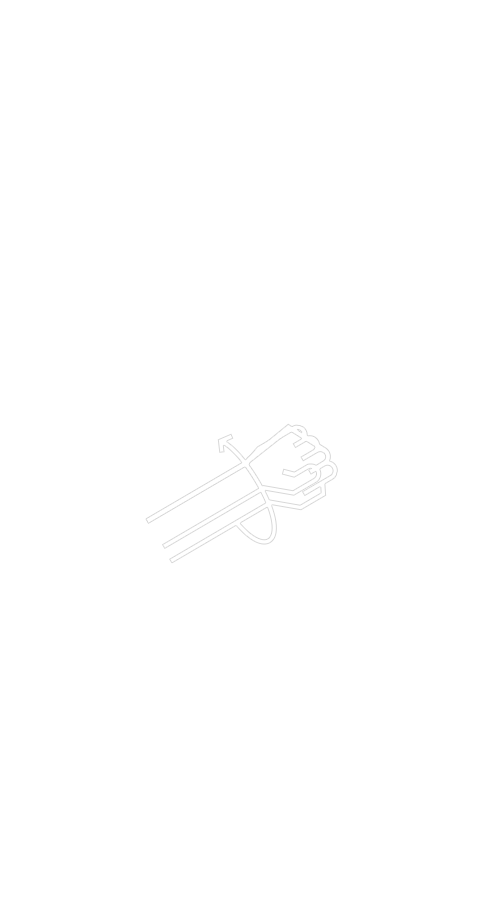
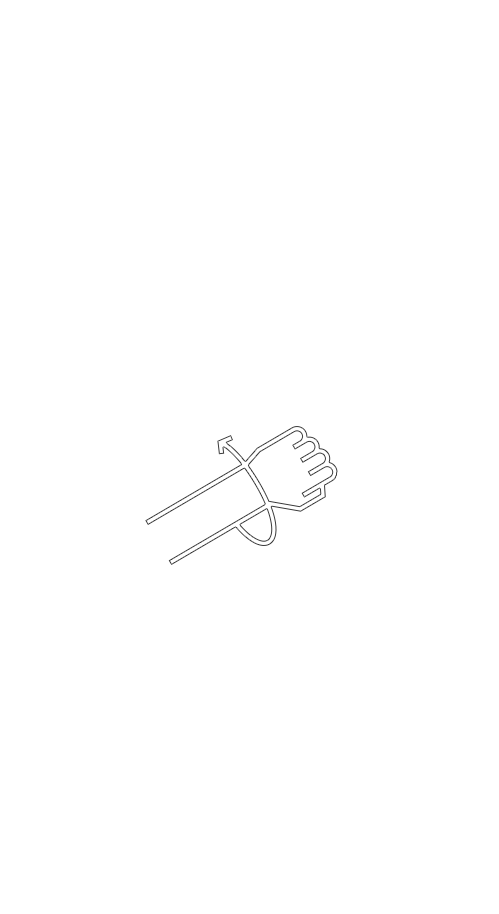
integration V1 ok

diff --git a/index.html b/index.html
@@ -112,26 +112,26 @@
                 </div>
                 <div class="main-elt">
                     <div class="contain-picto-mini">
-                        <div class="picto-meas-mini">
+                        <div class="picto-meas-mini hidden">
                             <span>1</span>
                             <img class="wrist-measure-mini" src="img/wrist-meas-mini-1.png" alt="Picture of wrist measure">
                         </div>
-                        <div class="picto-meas-mini">
+                        <div class="picto-meas-mini hidden">
                             <span>2</span>
                             <img class="wrist-measure-mini" src="img/wrist-meas-mini-2.png" alt="Picture of wrist measure">
                         </div>
-                        <div class="picto-meas-mini">
+                        <div class="picto-meas-mini hidden">
                             <span>3</span>
                             <img class="wrist-measure-mini" src="img/wrist-meas-mini-3.png" alt="Picture of wrist measure">
                         </div>
                     </div>
-                    <p><span class="red">1 - </span>Bien poser son smartphone<br>
+                    <p class="intro2-title"><span class="red">1 - </span>Bien poser son smartphone<br>
                         au contact de la peau de votre poignet
                     </p>
                     <div class="picto-meas">
-                        <!-- <img class="wrist-measure" src="img/wrist-meas-1.png" alt="Picture of wrist measure 1">
-                        <img class="wrist-measure" src="img/wrist-meas-2.png" alt="Picture of wrist measure 2"> -->
-                        <img class="wrist-measure" src="img/wrist-meas-3.png" alt="Picture of wrist measure 3">
+                        <img class="wrist-measure intro2-picto1" src="img/wrist-meas-1.png" alt="Picture of wrist measure 1">
+                        <img class="wrist-measure intro2-picto2" src="img/wrist-meas-2.png" alt="Picture of wrist measure 2">
+                        <img class="wrist-measure intro2-picto3" src="img/wrist-meas-3.png" alt="Picture of wrist measure 3">
                     </div>
                 </div>
                 <div class="contain-bot">
@@ -155,21 +155,21 @@
                             <span>1</span>
                             <img class="wrist-measure-mini" src="img/wrist-meas-mini-1.png" alt="Picture of wrist measure">
                         </div>
-                        <div class="picto-meas-mini">
+                        <div class="picto-meas-mini hidden">
                             <span>2</span>
                             <img class="wrist-measure-mini" src="img/wrist-meas-mini-2.png" alt="Picture of wrist measure">
                         </div>
-                        <div class="picto-meas-mini">
+                        <div class="picto-meas-mini hidden">
                             <span>3</span>
                             <img class="wrist-measure-mini" src="img/wrist-meas-mini-3.png" alt="Picture of wrist measure">
                         </div>
                     </div>
-                    <p><span class="red">2 - </span>Se positionner<br>
+                    <p class="intro3-title"><span class="red">2 - </span>Se positionner<br>
                         après l'os du poignet
                     </p>
                     <div class="picto-meas">
-                        <!-- <img class="wrist-measure" src="img/wrist-meas-4.png" alt="Picture of wrist measure 4"> -->
-                        <img class="wrist-measure" src="img/wrist-meas-5.png" alt="Picture of wrist measure 5">
+                        <img class="wrist-measure intro3-picto1" src="img/wrist-meas-4.png" alt="Picture of wrist measure 4">
+                        <img class="wrist-measure intro3-picto2" src="img/wrist-meas-5.png" alt="Picture of wrist measure 5">
                     </div>
                 </div>
                 <div class="contain-bot">
@@ -197,18 +197,18 @@
                             <span>2</span>
                             <img class="wrist-measure-mini" src="img/wrist-meas-mini-2.png" alt="Picture of wrist measure">
                         </div>
-                        <div class="picto-meas-mini">
+                        <div class="picto-meas-mini hidden">
                             <span>3</span>
                             <img class="wrist-measure-mini" src="img/wrist-meas-mini-3.png" alt="Picture of wrist measure">
                         </div>
                     </div>
-                    <p><span class="red">3 - </span>Ajuster la réglette virtuelle<br>
+                    <p class="intro4-title"><span class="red">3 - </span>Ajuster la réglette virtuelle<br>
                         sur la largeur dans la continuité du bras
                     </p>
                     <div class="picto-meas">
-                        <!-- <img class="wrist-measure" src="img/wrist-meas-6.png" alt="Picture of wrist measure 6">
-                        <img class="wrist-measure" src="img/wrist-meas-7.png" alt="Picture of wrist measure 7"> -->
-                        <img class="wrist-measure" src="img/wrist-meas-8.png" alt="Picture of wrist measure 8">
+                        <img class="wrist-measure intro4-picto1" src="img/wrist-meas-6.png" alt="Picture of wrist measure 6">
+                        <img class="wrist-measure intro4-picto2" src="img/wrist-meas-7.png" alt="Picture of wrist measure 7">
+                        <img class="wrist-measure intro4-picto3" src="img/wrist-meas-8.png" alt="Picture of wrist measure 8">
                     </div>
                 </div>
                 <div class="contain-bot">
@@ -320,13 +320,12 @@
         <div class="slide slide3">
             <div class="inside-slide">
                 <div class="main-elt">
-                    <p>Tournez votre poignet et prenez la mesure<br>
+                    <p class="slide3-title">Tournez votre poignet et prenez la mesure<br>
                         comme sur l'étape précédente</p>
                     <div class="picto-meas">
-                        <!-- <img class="wrist-rotate" src="img/wrist-rotate-1.png" alt="Picture of wrist rotate 1"> -->
-                        <img class="wrist-rotate" src="img/wrist-rotate-2.png" alt="Picture of wrist rotate 2">
-                        <!-- <img class="wrist-rotate" src="img/wrist-rotate-3.png" alt="Picture of wrist rotate 3"> -->
-                        <img class="wrist-rotate" src="img/wrist-rotate-4.png" alt="Picture of wrist rotate 4">
+                        <img class="wrist-rotate slide3-picto1" src="img/wrist-rotate-1.png" alt="Picture of wrist rotate 1">
+                        <img class="wrist-rotate slide3-picto2" src="img/wrist-rotate-2.png" alt="Picture of wrist rotate 2">
+                        <img class="wrist-rotate slide3-picto3" src="img/wrist-rotate-3.png" alt="Picture of wrist rotate 3">
                     </div>
                 </div>
                 <div class="contain-bot">
@@ -381,12 +380,9 @@
             <div class="inside-slide">
                 <div class="logo-top"><img src="img/logo.png" alt="Logo Tissot"></div>
                 <div class="main-elt">
-                    <p>Votre taille est :<br>
-                        <!-- <span class="result"></span> cm</p> -->
+                    <p class="slide5-title">Votre taille est :<br>
                         <span class="result"></span><span class="symb-unit3"></span></p>
-                        
-
-                    <div class="contain-unit">
+                    <div class="contain-unit contain-unit2">
                         <div class="unit unit-in">IN</div>
                         <div class="unit unit-cm select">CM</div>
                         <div class="unit unit-mm">MM</div>
@@ -405,7 +401,8 @@
         </div>
 
     </div> <!-- End of Container -->
-    
+
+    <script src="https://cdnjs.cloudflare.com/ajax/libs/gsap/3.9.1/gsap.min.js"></script>
     <script src="script.js"></script>
 </body>
 </html>

diff --git a/script.js b/script.js
@@ -130,6 +130,38 @@ function changeUnit(){
 
 
 
+// Timelines GSAP sur les Pictos
+const TL1 = gsap.timeline({repeat: -1, repeatDelay: 2, paused: true});
+TL1.from('.intro2-picto1', {duration: 1, opacity: 0}, 1)
+   .to('.intro2-picto1', {duration: 1, opacity: 0}, 3)
+   .from('.intro2-picto2', {duration: 0.4, opacity: 0}, 3)
+   .to('.intro2-picto2', {duration: 1, opacity: 0}, 5)
+   .from('.intro2-picto3', {duration: 0.4, opacity: 0}, 5);
+
+const TL2 = gsap.timeline({repeat: -1, repeatDelay: 2, paused: true});
+TL2.from('.intro3-picto1', {duration: 1, opacity: 0}, 1)
+   .to('.intro3-picto1', {duration: 1, opacity: 0}, 3)
+   .from('.intro3-picto2', {duration: 0.4, opacity: 0}, 3);
+
+const TL3 = gsap.timeline({repeat: -1, repeatDelay: 2, paused: true});
+TL3.from('.intro4-picto1', {duration: 1, opacity: 0}, 1)
+   .to('.intro4-picto1', {duration: 1, opacity: 0}, 3)
+   .from('.intro4-picto2', {duration: 0.4, opacity: 0}, 3)
+   .to('.intro4-picto2', {duration: 1, opacity: 0}, 6)
+   .from('.intro4-picto3', {duration: 0.4, opacity: 0}, 6);
+
+const TL4 = gsap.timeline({repeat: -1, repeatDelay: 2, paused: true});
+TL4.from('.slide3-picto1', {duration: 1, opacity: 0}, 1)
+   .to('.slide3-picto1', {duration: 0.5, opacity: 0}, 2.5)
+   .from('.slide3-picto2', {duration: 0.5, opacity: 0}, 2.5)
+   .from('.slide3-picto3', {duration: 0.5, opacity: 0}, 2.5)
+   .to('.slide3-picto2', {duration: 0.2, opacity: 0}, 3.5);
+
+const TL5 = gsap.timeline({repeat: 0, repeatDelay: 2, paused: true});
+TL5.from('.slide5-title', {duration: 1, opacity: 0, x: 50}, 0.1)
+   .from('.contain-unit2', {duration: 1, opacity: 0}, 1)
+   .from('.contain-cta', {duration: 1, opacity: 0}, 1.5);
+
 // On écoute sur chaque slide le click sur "Confirmer"
 suivant.forEach(element => {
     element.addEventListener('click', pageSuivante);
@@ -159,6 +191,37 @@ function pageSuivante(){
     pages[count].classList.add('active');
     showMeasure(measureElt1, numberElt1, lineElt1, symbElt1);
     showMeasure(measureElt2, numberElt2, lineElt2, symbElt2);
+
+    // Animation GSAP sur les Pictos
+    if(count == 2) {
+        TL1.restart();
+        gsap.from(".intro2-title", {x: 50, duration: 1});
+    } else {
+        TL1.pause();
+    }
+    if(count == 3) {
+        TL2.restart();
+        gsap.from(".intro3-title", {x: 50, duration: 1});
+    } else {
+        TL2.pause();
+    }
+    if(count == 4) {
+        TL3.restart();
+        gsap.from(".intro4-title", {x: 50, duration: 1});
+    } else {
+        TL3.pause();
+    }
+    if(count == 8) {
+        TL4.restart();
+        gsap.from(".slide3-title", {x: 50, duration: 1});
+    } else {
+        TL4.pause();
+    }
+    if(count == 10) {
+        TL5.restart();
+    } else {
+        TL5.pause();
+    }
 } // Fin de fonction pageSuivante
 
 
@@ -172,13 +235,33 @@ function pagePrecedente(){
     if(count > 0 && count != 5){
         count--;
     } else if(count > 0 && count == 5){
-        count = 2;
+        count = 1;
     } else {
         count = nbPages - 1;
     }
     pages[count].classList.add('active');
     showMeasure(measureElt1, numberElt1, lineElt1, symbElt1);
     showMeasure(measureElt2, numberElt2, lineElt2, symbElt2);
+    if(count == 2) {
+        TL1.restart();
+    } else {
+        TL1.pause();
+    }
+    if(count == 3) {
+        TL2.restart();
+    } else {
+        TL2.pause();
+    }
+    if(count == 4) {
+        TL3.restart();
+    } else {
+        TL3.pause();
+    }
+    if(count == 8) {
+        TL4.restart();
+    } else {
+        TL4.pause();
+    }
 }
 
 

diff --git a/css/style.css b/css/style.css
@@ -59,7 +59,7 @@ a{
 }
 .slide.active{
     display: block;
-    animation: inframe 2s;
+    animation: inframe 1s;
 }
 /* animation d'apparition des slides */
 @keyframes inframe {
@@ -70,6 +70,7 @@ a{
         opacity: 1;
     }
 }
+
 .inside-slide{
     position: relative;
     width: 100%;
@@ -274,13 +275,6 @@ a{
     padding-bottom: 13rem;
 }
 
-/* test */
-.slide3 .inside-slide{
-    /* position: relative; */
-    /* display: flex;
-    justify-content: center;
-    align-items: center; */
-}
 .slide3 .main-elt{
     width: 100%;
     height: 100%;
@@ -347,12 +341,6 @@ a{
     padding: 0;
 }
 
-.intro .picto-meas{
-    /* background-color: green; */
-    /* position: absolute; */
-    /* width: 100%;
-    height: 100%; */
-}
 
 /* INTRO 0 (Langue) */
 .intro0 .main-elt{
@@ -446,6 +434,9 @@ a{
 }
 .picto-meas-mini{
     position: relative;
+}
+.picto-meas-mini.hidden{
+    opacity: 0;
 }
 .picto-meas-mini span{
     position: absolute;
